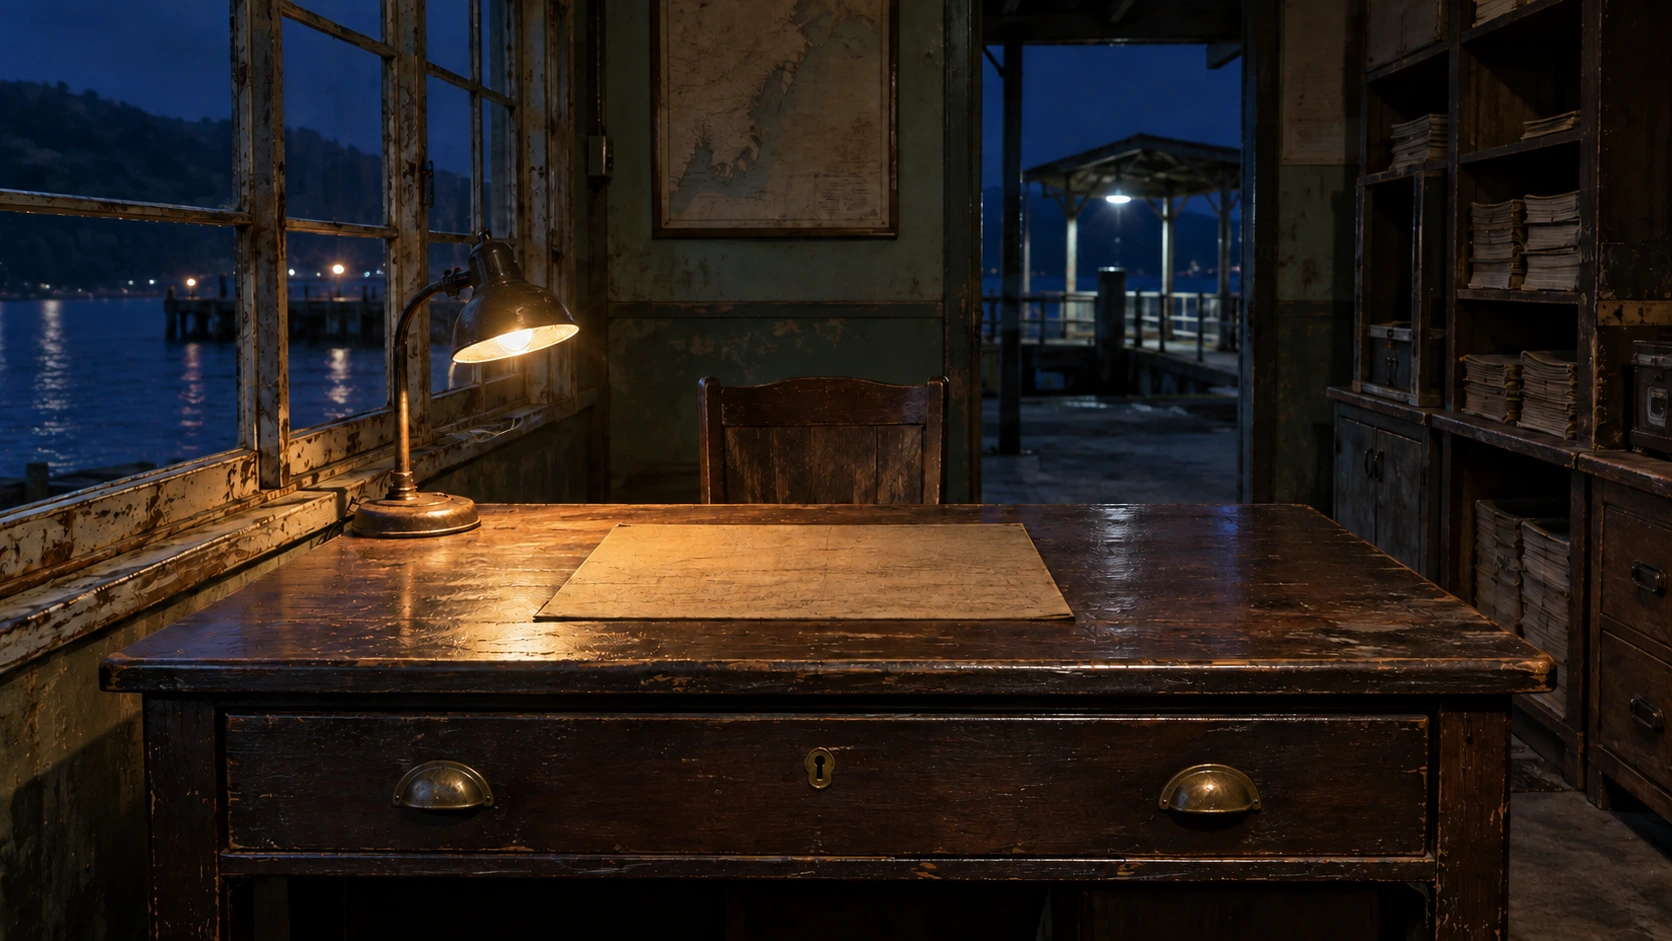
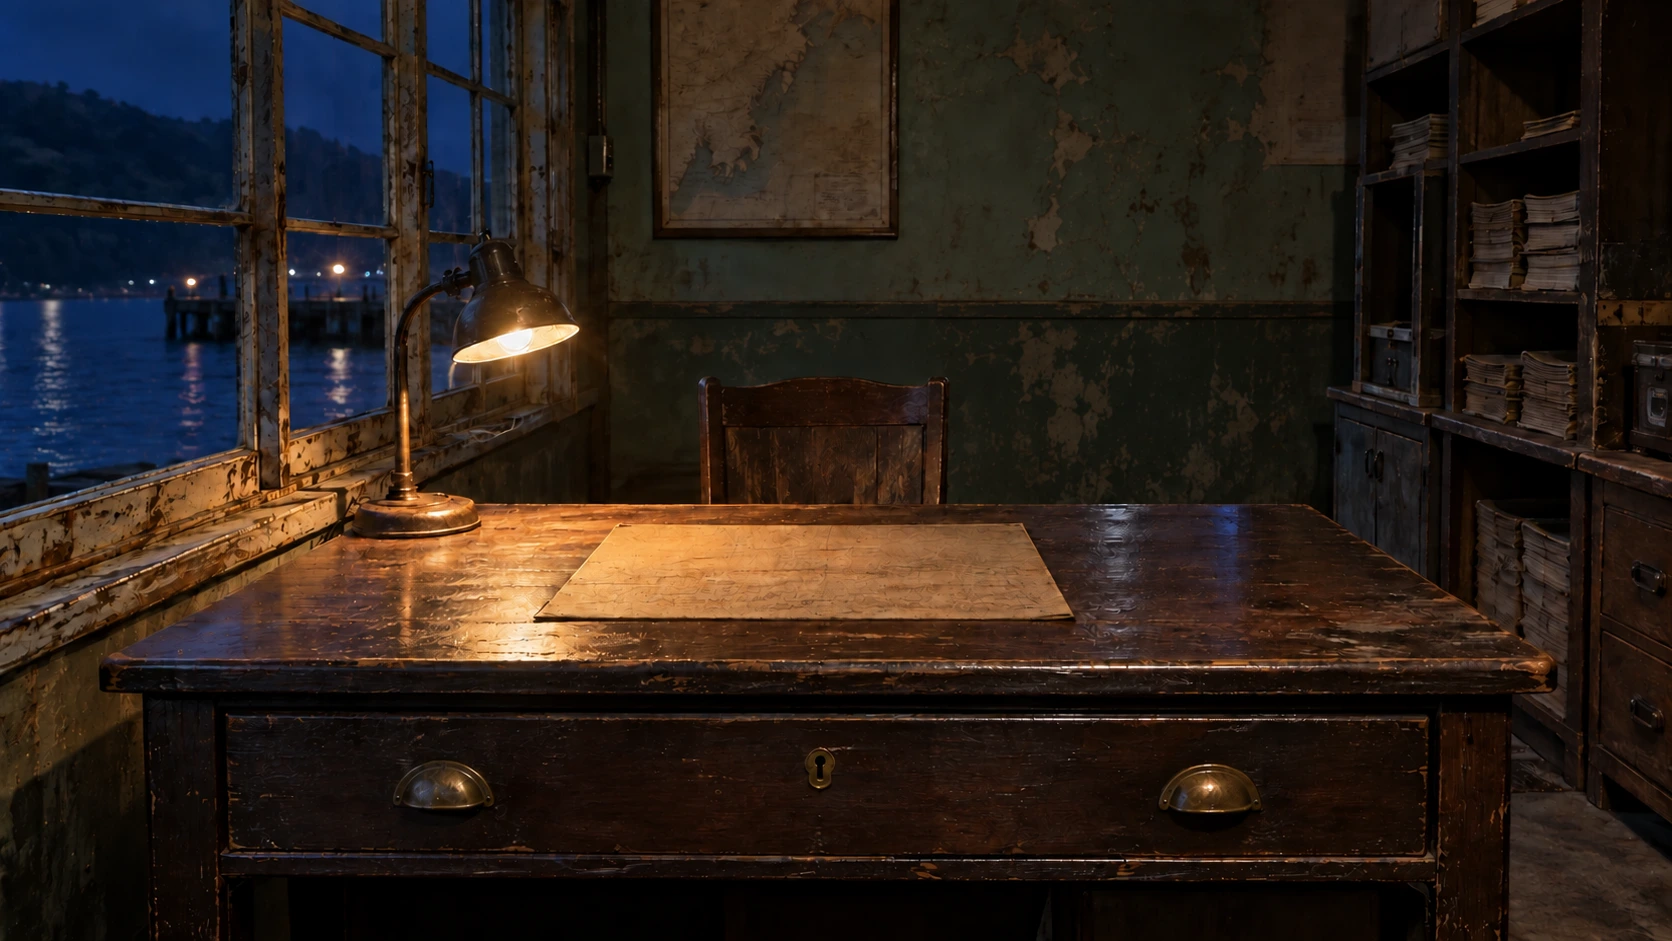
fix: 事務室と整備工房の入口を一つに統一

diff --git a/src/ui/Scene.tsx b/src/ui/Scene.tsx
@@ -61,8 +61,17 @@ export function Scene({ game: g, send }: ControlProps) {
       {(["dock", "office", "workshop", "pump", "service"] as Room[]).includes(
         g.room,
       ) && (
-        <button className="passage-link exit" onClick={go("concourse")}>
-          連絡桟橋へ →
+        <button
+          className="passage-link exit"
+          onClick={
+            (g.room === "office" || g.room === "workshop") && g.face === 0
+              ? () => send({ type: "face" })
+              : go("concourse")
+          }
+        >
+          {(g.room === "office" || g.room === "workshop") && g.face === 0
+            ? "入口を振り返る"
+            : "連絡桟橋へ →"}
         </button>
       )}
       {g.room === "lookout" && (
@@ -447,14 +456,6 @@ export function Scene({ game: g, send }: ControlProps) {
                 onClick={() => send({ type: "take", item: "chalk" })}
               />
             )}
-            <Hit
-              label="桟橋へ戻る"
-              x={60}
-              y={5}
-              w={15}
-              h={47}
-              onClick={go("concourse")}
-            />
           </>
         ) : (
           <>
@@ -509,14 +510,6 @@ export function Scene({ game: g, send }: ControlProps) {
                 onClick={() => send({ type: "take", item: "rod" })}
               />
             )}
-            <Hit
-              label="桟橋へ戻る"
-              x={1}
-              y={8}
-              w={15}
-              h={72}
-              onClick={go("concourse")}
-            />
           </>
         ) : (
           <>

diff --git a/src/ui/puzzles.css b/src/ui/puzzles.css
@@ -856,14 +856,15 @@
 }
 .room-open-tray {
   position: absolute;
-  left: 49%;
-  top: 49%;
-  width: 10%;
-  height: 4%;
+  left: 40%;
+  top: 50%;
+  width: 9%;
+  height: 3.5%;
   background: #241c10;
   transform: skewX(-28deg);
   display: flex;
   pointer-events: none;
+  z-index: 3;
   box-shadow: 1px 3px 3px #0008;
 }
 .room-open-tray img {

diff --git a/docs/qa/verification.md b/docs/qa/verification.md
@@ -1,5 +1,17 @@
 # SHIOMACHI 検証結果
 
+## 追補: 事務室・整備工房の入口の重複（2026-09-20）
+
+前回は出口を操作できることを確認したが、回転前後の写真に別々の出口がある構造矛盾を見落とした。両室を「連絡桟橋側に入口が一つ、入室後は奥の机・作業台を見る、振り返ると入口を見る」に統一した。事務室の奥の扉、工房の左の開口を壁に変更。開いた引き出しの差分にも同じ壁を適用した。事務室の入口側の余分な机と椅子を除き、緑の六枚ガラスの扉に統一。工房は両開きの木製扉に合わせた。桟橋側から覗く室内も更新。
+
+室内奥の旧出口のクリック領域を撤去し、常設ボタンを「入口を振り返る」に変更。入口側だけに桟橋へ出る操作を置く。左右操作と同じface遷移を使用し、既存セーブの進行データは変更しない。画像は一律に全景の拡大で代用せず、部屋の向きごとの専用画像を修正した。
+
+Playwright MCPで桟橋→両室→入口を振り返る→扉で桟橋へ戻る、文字ボタンでの退室を実操作。製品ビルドでも左右の振り返り・往復を確認した。桟橋、両室の前後、引き出し開閉、工具箱の解答前後を撮影して目視比較した。確認中に見つけた解答後の工具表示の箱外へのはみ出しも内側へ修正。20テストと製品ビルド成功。
+
+今回の確認はこの2室と入口・関連状態の修正に対するもの。過去の全場面チェックの件数を空間整合性の保証とはしない。ui-evolveのaction-relationshipsを参照し、向きを変える操作と退室操作を区別した。今回の具体的な空間条件は本追補へ保存し、一般UI知見への追加は行わない。
+
+比較画像: [room-layout-comparison.jpg](room-layout-comparison.jpg)。採用6枚と内蔵image_genのプロンプト: [room-layout-generation.json](../assets/room-layout-generation.json)。
+
 ## 追補: 水門の遠景と接写（2026-09-20）
 
 遠景に接写の金具だけを貼る方法では鮮明さ・取付け感が合わず、接写も門の全体形を失っていた。内蔵image_genで石のアーチ・両開きの扉・X補強材・取付け済みの水位窓と閂を含む専用接写を再生成。低/中/高水位と開門後を同じカメラで作り、GateViewを全景へ縮小投影する。部品の鮮明さだけが残らないよう扉全体に同じ距離表現を適用する。
